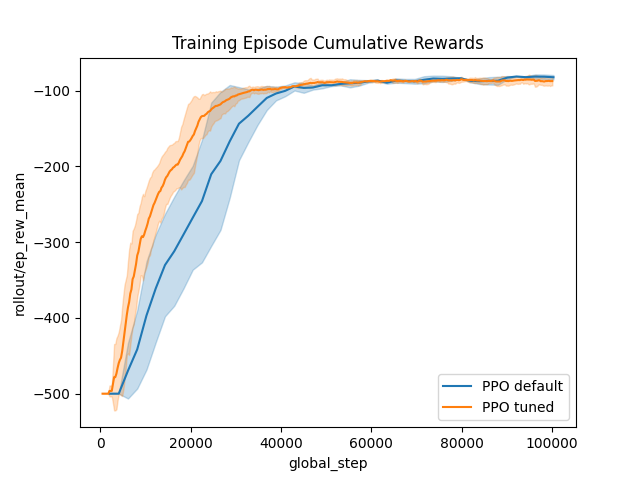
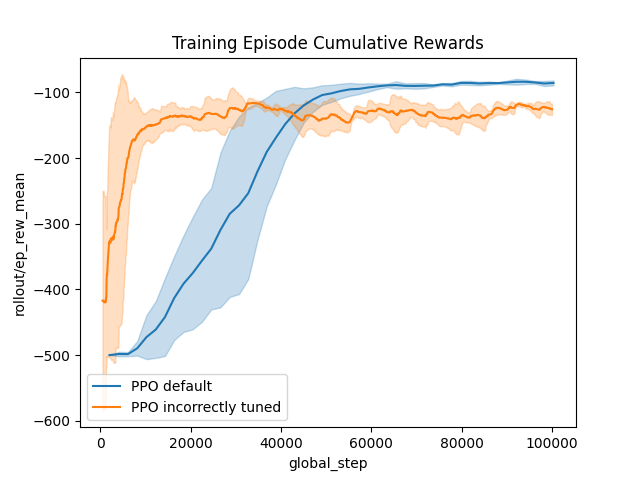
change hyperparameter for comparison

diff --git a/docs/basics/DeepRLTutorial/TutorialDeepRL.md b/docs/basics/DeepRLTutorial/TutorialDeepRL.md
@@ -64,10 +64,9 @@ observation and action spaces and the rewards occurring at each step.
 Running A2C on Acrobot-v1
 -----------------------
 
-<span>&#9888;</span> **warning :** depending on the seed, you may get different results, and if you're (un)lucky, your default agent may learn and be better than the tuned agent. <span>&#9888;</span>
+<span>&#9888;</span> **warning:** depending on the seed, you may get different results. <span>&#9888;</span>
 
-In the next example we use default parameters PPO and we use rlberry to train and evaluate our PPO agent. The
-default networks are:
+In the next example we use default parameters PPO and we use rlberry to train and evaluate the [Stable Baselines](https://github.com/DLR-RM/stable-baselines3) PPO agent.
 
 ```python
 """
@@ -105,17 +104,19 @@ _ = plot_writer_data(
 
 ```none
 Training ...
-[INFO] 15:57: Running ExperimentManager fit() for PPO default with n_fit = 3 and max_workers = None.
-[INFO] 15:57:                                   agent_name  worker  time/iterations  max_global_step
-                                               PPO default    0           1               2048
-[INFO] 15:57: [PPO default[worker: 2]] | max_global_step = 4096 | time/iterations = 1 | rollout/ep_rew_mean = -500.0 | rollout/ep_len_mean = 500.0 | time/fps = 727 | time/time_elapsed = 2 | time/total_timesteps = 2048 | train/learning_rate = 0.0003 |
-[INFO] 15:57: [PPO default[worker: 0]] | max_global_step = 4096 | time/iterations = 1 | rollout/ep_rew_mean = -500.0 | rollout/ep_len_mean = 500.0 | time/fps = 705 | time/time_elapsed = 2 | time/total_timesteps = 2048 | train/learning_rate = 0.0003 |
-[INFO] 15:57: [PPO default[worker: 1]] | max_global_step = 4096 | time/iterations = 1 | rollout/ep_rew_mean = -500.0 | rollout/ep_len_mean = 500.0 | time/fps = 719 | time/time_elapsed = 2 | time/total_timesteps = 2048 | train/learning_rate = 0.0003 |
+[INFO] 09:31: Running ExperimentManager fit() for PPO default with n_fit = 3 and max_workers = None.
+[INFO] 09:31: [PPO default[worker: 0]] | max_global_step = 4096 | time/iterations = 1 | rollout/ep_rew_mean = -500.0 | rollout/ep_len_mean = 500.0 | time/fps = 791 | time/time_elapsed = 2 | time/total_timesteps = 2048 | train/learning_rate = 0.0003 |
+[INFO] 09:31: [PPO default[worker: 1]] | max_global_step = 4096 | time/iterations = 1 | rollout/ep_rew_mean = -500.0 | rollout/ep_len_mean = 500.0 | time/fps = 741 | time/time_elapsed = 2 | time/total_timesteps = 2048 | train/learning_rate = 0.0003 |
+[INFO] 09:31: [PPO default[worker: 2]] | max_global_step = 4096 | time/iterations = 1 | rollout/ep_rew_mean = -500.0 | rollout/ep_len_mean = 500.0 | time/fps = 751 | time/time_elapsed = 2 | time/total_timesteps = 2048 | train/learning_rate = 0.0003 |
+[INFO] 09:32: [PPO default[worker: 0]] | max_global_step = 6144 | time/iterations = 2 | rollout/ep_rew_mean = -500.0 | rollout/ep_len_mean = 500.0 | time/fps = 617 | time/time_elapsed = 6 | time/total_timesteps = 4096 | train/learning_rate = 0.0003 | train/entropy_loss = -1.0967000976204873 | train/policy_gradient_loss = -0.0017652213326073251 | train/value_loss = 139.4249062538147 | train/approx_kl = 0.004285778850317001 | train/clip_fraction = 0.0044921875 | train/loss = 16.845857620239258 | train/explained_variance = -0.0011605024337768555 | train/n_updates = 10 | train/clip_range = 0.2 |
 ...
 ...
 ...
-[INFO] 16:01: [PPO default[worker: 1]] | max_global_step = 100352 | time/iterations = 48 | rollout/ep_rew_mean = -79.26 | rollout/ep_len_mean = 80.26 | time/fps = 398 | time/time_elapsed = 246 | time/total_timesteps = 98304 | train/learning_rate = 0.0003 | train/entropy_loss = -0.1558212914969772 | train/policy_gradient_loss = -0.001575780064376886 | train/value_loss = 9.463472159206868 | train/approx_kl = 0.0019107917323708534 | train/clip_fraction = 0.018701171875 | train/loss = 10.015292167663574 | train/explained_variance = 0.9502505771815777 | train/n_updates = 470 | train/clip_range = 0.2 |
-[INFO] 16:01: [PPO default[worker: 2]] | max_global_step = 100352 | time/iterations = 48 | rollout/ep_rew_mean = -81.55 | rollout/ep_len_mean = 82.55 | time/fps = 398 | time/time_elapsed = 246 | time/total_timesteps = 98304 | train/learning_rate = 0.0003 | train/entropy_loss = -0.1251153098186478 | train/policy_gradient_loss = -0.003398912865668535 | train/value_loss = 8.9318665035069 | train/approx_kl = 0.0023679514415562153 | train/clip_fraction = 0.022314453125 | train/loss = 4.039802551269531 | train/explained_variance = 0.9598834589123726 | train/n_updates = 470 | train/clip_range = 0.2 |
+[INFO] 09:35: [PPO default[worker: 1]] | max_global_step = 100352 | time/iterations = 48 | rollout/ep_rew_mean = -89.81 | rollout/ep_len_mean = 90.8 | time/fps = 486 | time/time_elapsed = 202 | time/total_timesteps = 98304 | train/learning_rate = 0.0003 | train/entropy_loss = -0.19921453138813378 | train/policy_gradient_loss = -0.002730156043253373 | train/value_loss = 21.20977843105793 | train/approx_kl = 0.0014179411809891462 | train/clip_fraction = 0.017626953125 | train/loss = 9.601455688476562 | train/explained_variance = 0.8966712430119514 | train/n_updates = 470 | train/clip_range = 0.2 |
+[INFO] 09:35: [PPO default[worker: 0]] | max_global_step = 100352 | time/iterations = 48 | rollout/ep_rew_mean = -83.22 | rollout/ep_len_mean = 84.22 | time/fps = 486 | time/time_elapsed = 202 | time/total_timesteps = 98304 | train/learning_rate = 0.0003 | train/entropy_loss = -0.14615743807516993 | train/policy_gradient_loss = -0.002418491238495335 | train/value_loss = 22.7100858271122 | train/approx_kl = 0.0006727844011038542 | train/clip_fraction = 0.010546875 | train/loss = 8.74121379852295 | train/explained_variance = 0.8884317129850388 | train/n_updates = 470 | train/clip_range = 0.2 |
+[INFO] 09:35: ... trained!
+[INFO] 09:35: Saved ExperimentManager(PPO default) using pickle.
+[INFO] 09:35: The ExperimentManager was saved in : 'rlberry_data/temp/manager_data/PPO default_2024-04-24_09-31-51_be15b329/manager_obj.pickle'
 ```
 
 </br>
@@ -135,7 +136,7 @@ _ = evaluate_agents(
 
 ```none
 Evaluating ...
-[INFO] 16:03: Evaluating PPO default...
+[INFO] 09:36: Evaluating PPO default...
 [INFO] Evaluation:..................................................  Evaluation finished
 ```
 
@@ -146,8 +147,13 @@ Evaluating ...
 :align: center
 ```
 
-Let's try to change the hyperparameters and see if we can
-beat our previous result. This time we use the recommended hyperparameters from [rl-baselines3-zoo](https://github.com/DLR-RM/rl-baselines3-zoo/).
+Let's try to change the hyperparameters and see if it change the previous result.
+
+<span>&#9888;</span> **warning:** The aim of this section is to show that hyperparameters have an effect on agent training, and to demonstrate that it is possible to modify them.
+
+For pedagogical purposes, since the default hyperparameters are effective on these simple environments, we'll compare the default agent with an agent tuned with the wrong hyperparameters, which decreases the results. Obviously, in practical cases, the aim is to find hyperparameters that improve results... not decrease them. <span>&#9888;</span>
+
+
 
 
 ```python
@@ -158,11 +164,13 @@ tuned_xp = ExperimentManager(
         algo_cls=PPO,
         # gradient descent steps.
         # descent steps.
-        ent_coef=0.00,  # How much to force exploration.
-        normalize_advantage=True,  # normalize the advantage
-        gae_lambda=0.94,  # Factor for trade-off of bias vs variance for Generalized Advantage Estimator
-        n_epochs=4,  # Number of epoch when optimizing the surrogate loss
-        n_steps=256,  # The number of steps to run for the environment per update
+        ent_coef=0.10,  # How much to force exploration.
+        normalize_advantage=False,  # normalize the advantage
+        gae_lambda=0.90,  # Factor for trade-off of bias vs variance for Generalized Advantage Estimator
+        n_epochs=20,  # Number of epoch when optimizing the surrogate loss
+        n_steps=64,  # The number of steps to run for the environment per update
+        learning_rate=1e-3,
+        batch_size=32,
     ),
     fit_budget=1e5,  # The number of interactions
     # between the agent and the
@@ -174,7 +182,7 @@ tuned_xp = ExperimentManager(
     # Usually, it is good to do more
     # than 1 because the training is
     # stochastic.
-    agent_name="PPO tuned",  # The agent's name.
+    agent_name="PPO incorrectly tuned",  # The agent's name.
 )
 
 
@@ -192,28 +200,26 @@ _ = plot_writer_data(
 ```
 
 ```none
-[INFO] 16:06: Running ExperimentManager fit() for PPO tuned with n_fit = 3 and max_workers = None.
-```
-
-</br>
-
-```none
 Training ...
 ```
 
 </br>
 
 ```none
-[INFO] 16:07: [PPO tuned[worker: 1]] | max_global_step = 2048 | time/iterations = 7 | time/fps = 609 | time/time_elapsed = 2 | time/total_timesteps = 1792 | train/learning_rate = 0.0003 | train/entropy_loss = -1.0974667742848396 | train/policy_gradient_loss = -0.0009369864128530025 | train/value_loss = 162.15267086029053 | train/approx_kl = 0.00016404897905886173 | train/clip_fraction = 0.0 | train/loss = 70.76416778564453 | train/explained_variance = 0.038179218769073486 | train/n_updates = 24 | train/clip_range = 0.2 | rollout/ep_rew_mean = -500.0 | rollout/ep_len_mean = 500.0 |
-[INFO] 16:07: [PPO tuned[worker: 0]] | max_global_step = 2048 | time/iterations = 7 | time/fps = 608 | time/time_elapsed = 2 | time/total_timesteps = 1792 | train/learning_rate = 0.0003 | train/entropy_loss = -1.097521685063839 | train/policy_gradient_loss = -0.0021453166846185923 | train/value_loss = 159.90410614013672 | train/approx_kl = 0.00030635856091976166 | train/clip_fraction = 0.0 | train/loss = 72.51579284667969 | train/explained_variance = 0.00991511344909668 | train/n_updates = 24 | train/clip_range = 0.2 | rollout/ep_rew_mean = -500.0 | rollout/ep_len_mean = 500.0 |
-[INFO] 16:07: [PPO tuned[worker: 2]] | max_global_step = 2048 | time/iterations = 7 | time/fps = 604 | time/time_elapsed = 2 | time/total_timesteps = 1792 | train/learning_rate = 0.0003 | train/entropy_loss = -1.0938222110271454 | train/policy_gradient_loss = -0.002581374952569604 | train/value_loss = 167.01866149902344 | train/approx_kl = 0.0009766086004674435 | train/clip_fraction = 0.0 | train/loss = 77.16150665283203 | train/explained_variance = -0.26804113388061523 | train/n_updates = 24 | train/clip_range = 0.2 | rollout/ep_rew_mean = -500.0 | rollout/ep_len_mean = 500.0 |
-[INFO] 16:07: [PPO tuned[worker: 1]] | max_global_step = 3840 | time/iterations = 14 | time/fps = 598 | time/time_elapsed = 5 | time/total_timesteps = 3584 | train/learning_rate = 0.0003 | train/entropy_loss = -1.0899569168686867 | train/policy_gradient_loss = -0.002536407206207514 | train/value_loss = 165.09891891479492 | train/approx_kl = 0.0010566194541752338 | train/clip_fraction = 0.0 | train/loss = 79.24039459228516 | train/explained_variance = -0.2665156126022339 | train/n_updates = 52 | train/clip_range = 0.2 | rollout/ep_rew_mean = -493.7142857142857 | rollout/ep_len_mean = 493.85714285714283 |
+[INFO] 09:37: Running ExperimentManager fit() for PPO incorrectly tuned with n_fit = 3 and max_workers = None.
+```
+
+</br>
+
+```none
+[INFO] 09:37: [PPO incorrectly tuned[worker: 1]] | max_global_step = 832 | time/iterations = 12 | time/fps = 260 | time/time_elapsed = 2 | time/total_timesteps = 768 | train/learning_rate = 0.001 | train/entropy_loss = -0.9725531369447709 | train/policy_gradient_loss = 5.175539326667786 | train/value_loss = 17.705344581604002 | train/approx_kl = 0.028903376311063766 | train/clip_fraction = 0.33828125 | train/loss = 8.651824951171875 | train/explained_variance = 0.03754150867462158 | train/n_updates = 220 | train/clip_range = 0.2 | rollout/ep_rew_mean = -251.0 | rollout/ep_len_mean = 252.0 |
+[INFO] 09:37: [PPO incorrectly tuned[worker: 2]] | max_global_step = 832 | time/iterations = 12 | time/fps = 260 | time/time_elapsed = 2 | time/total_timesteps = 768 | train/learning_rate = 0.001 | train/entropy_loss = -1.0311604633927345 | train/policy_gradient_loss = 5.122353088855744 | train/value_loss = 18.54480469226837 | train/approx_kl = 0.02180374786257744 | train/clip_fraction = 0.359375 | train/loss = 9.690193176269531 | train/explained_variance = -0.00020706653594970703 | train/n_updates = 220 | train/clip_range = 0.2 | rollout/ep_rew_mean = -500.0 | rollout/ep_len_mean = 500.0 |
 ...
 ...
 ...
-[INFO] 16:10: ... trained!
-[INFO] 16:10: Saved ExperimentManager(PPO tuned) using pickle.
-[INFO] 16:10: The ExperimentManager was saved in : 'rlberry_data/temp/manager_data/PPO tuned_2024-04-17_16-06-57_5f0b4f99/manager_obj.pickle'
+[INFO] 09:45: ... trained!
+[INFO] 09:45: Saved ExperimentManager(PPO incorrectly tuned) using pickle.
+[INFO] 09:45: The ExperimentManager was saved in : 'rlberry_data/temp/manager_data/PPO incorrectly tuned_2024-04-24_09-37-32_33d1646b/manager_obj.pickle'
 ```
 
 </br>
@@ -222,7 +228,7 @@ Training ...
 ```{image} output_9_3.png
 :align: center
 ```
-Here, we can see that modifying the hyperparameters has accelerated learning...
+Here, we can see that modifying the hyperparameters has change the learning process (for the worse): it learns faster, but the final result is lower...
 
 <span>&#9728;</span> : For more information on plots and visualization, you can check [here (in construction)](visualization_page)
 
@@ -242,9 +248,9 @@ Evaluating ...
 </br>
 
 ```none
-[INFO] 16:11: Evaluating PPO default...
+[INFO] 09:47: Evaluating PPO default...
 [INFO] Evaluation:..................................................  Evaluation finished
-[INFO] 16:11: Evaluating PPO tuned...
+[INFO] 09:47: Evaluating PPO incorrectly tuned...
 [INFO] Evaluation:..................................................  Evaluation finished
 ```
 
